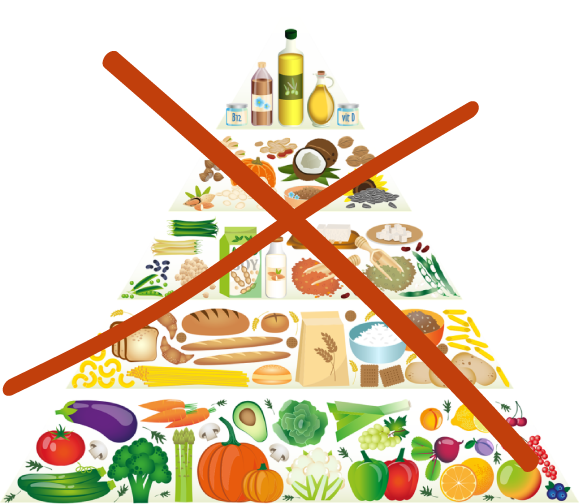
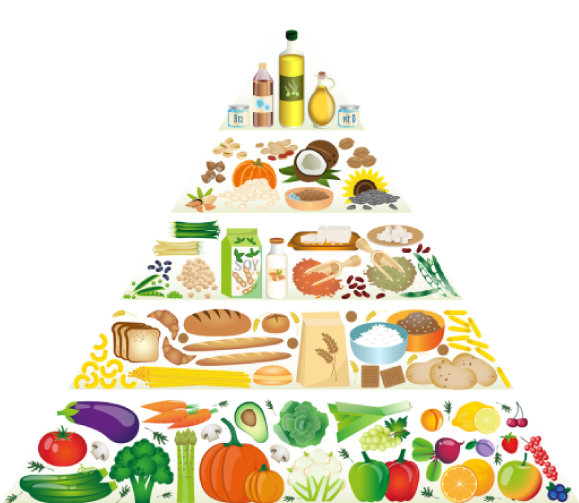
Adicionada as imagens na tela inicial e ajustado o css

Changed region(s): [[0.0, 0.0596, 1.0, 1.0]]

diff --git a/index.html b/index.html
@@ -26,7 +26,8 @@
   <div class="container-fluid" id="tela01">
       <div class="row">
         <div class="col-lg-6 col-md-12 col-xs-12 col-img">
-          <img class="img-inicial rellax" data-rellax-speed="2" data-rellax-zindex="10" src="img/tela_inicial_elemento.png" alt="">
+         <!-- <img class="img-inicial rellax" data-rellax-speed="2" data-rellax-zindex="10" src="img/tela_inicial_elemento.png" alt="">-->
+         <img class="img-inicial rellax" data-rellax-speed="2" data-rellax-zindex="10" src="img/tela_inicial.png" alt="">
         </div>
         <div class="col-lg-6 col-md-12 col-xs-12 col-text">
           <h1>Crescendo<br><b>com saúde</b></h1>

diff --git a/css/styles.css b/css/styles.css
@@ -80,9 +80,9 @@ body {
 }
 
 .img-inicial {
-    max-height: 100vh;
-    margin-top: -50px;
-    margin-left: 100px;
+    max-height: 95vh;
+    margin-top: 0;
+    /*margin-left: 100px;*/
 }
 
 .col-text {
